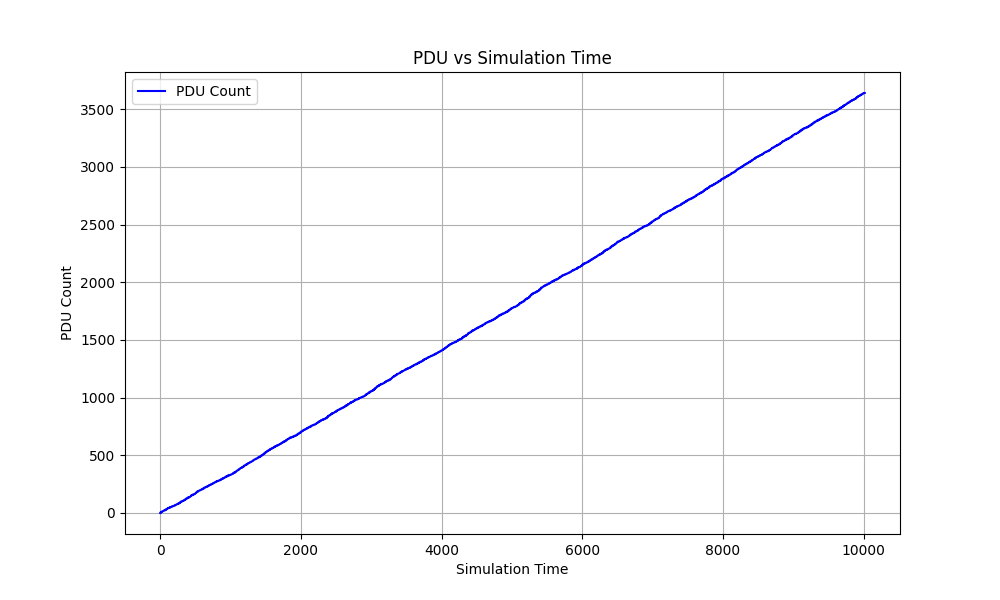
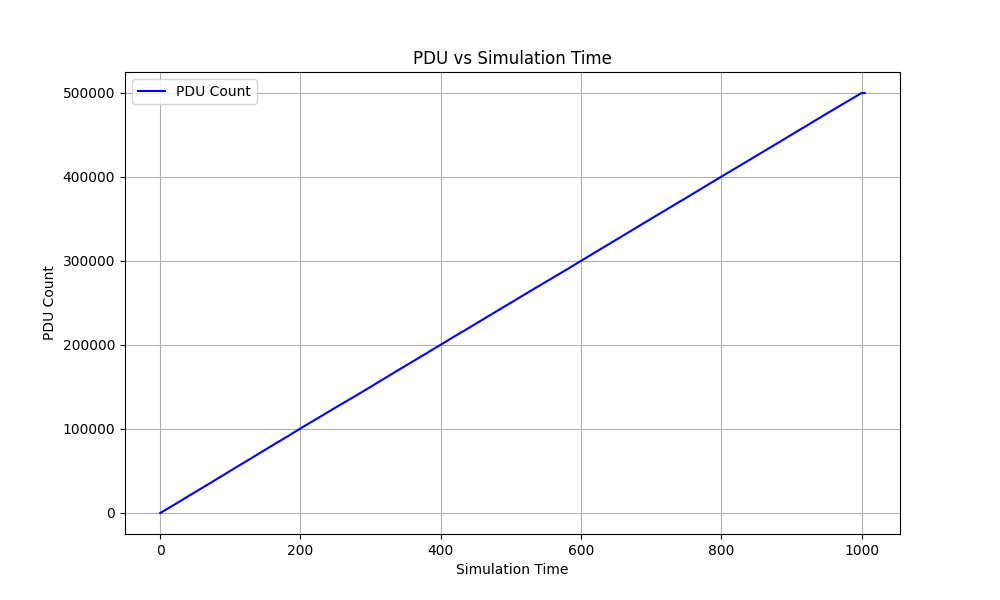
1. Removed constants from code and added them as parameters (lambda and mu) 2. Added separate module for post processing 3. Plotted Active PDUs and UPFs vs time 4. Made the case for sorting a user argument as well

diff --git a/main.py b/main.py
@@ -1,8 +1,9 @@
 import heapq
 import random
 import argparse
-import math
 import matplotlib.pyplot as plt
+import numpy as np
+from post_processing import generate_plots
 
 # Event types
 EVENT_GENERATE_PDU_SESSION = 1
@@ -89,26 +90,32 @@ class Scheduler:
     Implements the event-based scheduler simulation.
     """
 
-    def __init__(self, max_upf_instances, min_upf_instances, max_sessions_per_upf, scale_out_threshold,
-                 scale_in_threshold, simulation_time, output_file):
+    def __init__(self, upf_case, max_upf_instances, min_upf_instances, max_sessions_per_upf, scale_out_threshold,
+                 scale_in_threshold, simulation_time, arrival_rate, mu, output_file):
         """
         Initialize the scheduler with simulation parameters.
 
+        :param upf_case: Case for UPF sorting.
         :param max_upf_instances: Maximum number of UPF instances (L).
         :param min_upf_instances: Minimum number of UPF instances (M).
         :param max_sessions_per_upf: Maximum number of sessions per UPF (C).
         :param scale_out_threshold: Scale-out threshold (T1).
         :param scale_in_threshold: Scale-in threshold (T2).
         :param simulation_time: Total simulation time.
+        :param arrival_rate: Rate of session arrival (λ).
+        :param mu: Session duration parameter (µ).
         :param output_file: File to write simulation outputs.
         """
         self.event_queue = []
         self.upfs = []
+        self.upf_case = upf_case
         self.max_upf_instances = max_upf_instances
         self.min_upf_instances = min_upf_instances
         self.max_sessions_per_upf = max_sessions_per_upf
         self.scale_out_threshold = scale_out_threshold
         self.scale_in_threshold = scale_in_threshold
+        self.arrival_rate = arrival_rate
+        self.mu = mu
         self.num_upf_instances = 0
         self.next_upf_id = 0
         self.session_counter = 0
@@ -142,22 +149,21 @@ class Scheduler:
         lowest_sessions_upfs = [upf for upf in upfs_sorted if len(upf.sessions) == len(upfs_sorted[0].sessions)]
         return random.choice(lowest_sessions_upfs)
 
-    def generate_pdu_session(self, case):
+    def generate_pdu_session(self):
         """
         Generate a new PDU session event.
-        :param case: Case 1 (default) or Case 2 (select UPF with the lowest sessions).
         """
         message = f"Time: {self.current_time}, UE generates PDU session"
         self._log(message)
         session_id = self.session_counter
         self.session_counter += 1
-        duration = math.ceil(-math.log(random.uniform(0, 1)) * 5)  # Exponential distribution between 1 and 5
+        duration = np.random.exponential(1/self.mu)
         session = PDUSession(session_id, self.current_time, duration)
 
         # Find an available UPF
-        if case == 1:
+        if self.upf_case == 0:
             available_upf = next((upf for upf in self.upfs if len(upf.sessions) < self.max_sessions_per_upf), None)
-        elif case == 2:
+        elif self.upf_case == 1:
             available_upf = self.get_upf_with_lowest_sessions() if self.upfs else None
         else:
             message = f"Time: {self.current_time}, No UPF available"
@@ -248,8 +254,9 @@ class Scheduler:
         """
 
         pdu_counts = []  # List to store PDU counts
-        upf_counts_case1 = []  # List to store UPF counts for Case 1
-        upf_counts_case2 = []  # List to store UPF counts for Case 2
+        upf_counts = []  # List to store UPF counts
+        active_pdu_counts = []  # List to store active PDU counts
+        active_upf_counts = []  # List to store active UPF counts
         time_points = []  # List to store time points
 
         # Schedule the initial PDU session generation
@@ -264,17 +271,16 @@ class Scheduler:
             self.current_time = event.time
 
             pdu_counts.append(self.session_counter)  # Record PDU count
-            upf_counts_case1.append(self.next_upf_id)  # Record UPF count for Case 1
-            upf_counts_case2.append(self.next_upf_id)  # Record UPF count for Case 2
+            upf_counts.append(self.next_upf_id)  # Record UPF count
+            active_pdu_counts.append(self.active_sessions)  # Record active PDU count
+            active_upf_counts.append(self.num_upf_instances)  # Record active UPF count
             time_points.append(self.current_time)  # Record time
 
             if event.event_type == EVENT_GENERATE_PDU_SESSION:
-                self.generate_pdu_session(case=1)  # Run Case 1
-                self.generate_pdu_session(case=2)  # Run Case 2
+                self.generate_pdu_session()
 
                 # Schedule the next PDU session generation
-                next_generation_time = self.current_time + random.randint(1, 10)  # Random interval between 1 and 10
-                # time units
+                next_generation_time = self.current_time + np.random.exponential(1 / self.arrival_rate)
                 if next_generation_time <= self.simulation_time:
                     generation_event = Event(EVENT_GENERATE_PDU_SESSION, next_generation_time)
                     heapq.heappush(self.event_queue, generation_event)
@@ -294,42 +300,26 @@ class Scheduler:
         self._log(f"Simulation completed. Total PDU sessions processed: {self.session_counter}. "
                   f"Total UPFs deployed: {self.next_upf_id}.")
 
-        # Plot PDU against simulation time
-        plt.figure(figsize=(10, 6))
-        plt.plot(time_points, pdu_counts, label='PDU Count', color='blue')
-        plt.xlabel('Simulation Time')
-        plt.ylabel('PDU Count')
-        plt.title('PDU vs Simulation Time')
-        plt.grid(True)
-        plt.legend()
-        plt.savefig('pdu_vs_simulation_time.png')
-        plt.show()
-
-        # Plot UPF against simulation time
-        plt.figure(figsize=(10, 6))
-        plt.plot(time_points, upf_counts_case1, label='UPF Count', color='green')
-        plt.plot(time_points, upf_counts_case2, label='UPF Count', color='red')
-        plt.xlabel('Simulation Time')
-        plt.ylabel('UPF Count')
-        plt.title('UPF vs Simulation Time')
-        plt.grid(True)
-        plt.legend()
-        plt.savefig('upf_vs_simulation_time.png')
-        plt.show()
+        # Generate plots
+        generate_plots(time_points, pdu_counts, upf_counts, active_pdu_counts, active_upf_counts)
 
 
 if __name__ == "__main__":
     parser = argparse.ArgumentParser(description="Event-based scheduler simulation")
+    parser.add_argument("--upf_case", type=int, default=1, help="Case for UPF sorting")
     parser.add_argument("--max-upf-instances", type=int, default=110, help="Maximum number of UPF instances (L)")
     parser.add_argument("--min-upf-instances", type=int, default=1, help="Minimum number of UPF instances (M)")
     parser.add_argument("--max-sessions-per-upf", type=int, default=8, help="Maximum number of sessions per UPF (C)")
     parser.add_argument("--scale-out-threshold", type=int, default=3, help="Scale-out threshold (T1)")
     parser.add_argument("--scale-in-threshold", type=int, default=13, help="Scale-in threshold (T2)")
-    parser.add_argument("--simulation-time", type=int, default=10000, help="Simulation time")
+    parser.add_argument("--simulation-time", type=int, default=1000, help="Simulation time")
+    parser.add_argument("--arrival_rate", type=int, default=500, help="Inter-arrival rate")
+    parser.add_argument("--mu", type=int, default=1, help="µ parameter for session duration")
     parser.add_argument("--output-file", type=str, default="simulation.log", help="File to write simulation outputs")
 
     args = parser.parse_args()
 
-    scheduler = Scheduler(args.max_upf_instances, args.min_upf_instances, args.max_sessions_per_upf,
-                          args.scale_out_threshold, args.scale_in_threshold, args.simulation_time, args.output_file)
+    scheduler = Scheduler(args.upf_case, args.max_upf_instances, args.min_upf_instances, args.max_sessions_per_upf,
+                          args.scale_out_threshold, args.scale_in_threshold, args.simulation_time, args.arrival_rate,
+                          args.mu, args.output_file)
     scheduler.run()

diff --git a/post_processing.py b/post_processing.py
@@ -1,0 +1,55 @@
+import matplotlib.pyplot as plt
+
+
+def generate_plots(time_points, pdu_counts, upf_counts, active_pdu_counts, active_upf_counts):
+    """
+    Generate plots for PDU count against simulation time and UPF count against simulation time.
+
+    :param time_points: List of time points
+    :param pdu_counts: List of PDUs
+    :param upf_counts: List of UPFs
+    :param active_pdu_counts: List of active PDUs
+    :param active_upf_counts: List of active UPFs
+    """
+    # Plot PDU against simulation time
+    plt.figure(figsize=(10, 6))
+    plt.plot(time_points, pdu_counts, label='PDU Count', color='blue')
+    plt.xlabel('Simulation Time')
+    plt.ylabel('PDU Count')
+    plt.title('PDU vs Simulation Time')
+    plt.grid(True)
+    plt.legend()
+    plt.savefig('pdu_vs_simulation_time.png')
+    plt.show()
+
+    # Plot UPF against simulation time
+    plt.figure(figsize=(10, 6))
+    plt.plot(time_points, upf_counts, label='UPF Count', color='green')
+    plt.xlabel('Simulation Time')
+    plt.ylabel('UPF Count')
+    plt.title('UPF vs Simulation Time')
+    plt.grid(True)
+    plt.legend()
+    plt.savefig('upf_vs_simulation_time_case1.png')
+    plt.show()
+
+    plt.figure(figsize=(10, 6))
+    plt.plot(time_points, active_pdu_counts, label='Active PDUs', color='red')
+    plt.xlabel('Simulation Time')
+    plt.ylabel('Active PDU Count')
+    plt.title('Active PDUs vs Simulation Time')
+    plt.grid(True)
+    plt.legend()
+    plt.savefig('active_pdus_vs_simulation_time_case1.png')
+    plt.show()
+
+    # Plot active UPFs against simulation time
+    plt.figure(figsize=(10, 6))
+    plt.plot(time_points, active_upf_counts, label='Active UPFs', color='orange')
+    plt.xlabel('Simulation Time')
+    plt.ylabel('Active UPF Count')
+    plt.title('Active UPFs vs Simulation Time')
+    plt.grid(True)
+    plt.legend()
+    plt.savefig('active_upfs_vs_simulation_time_case1.png')
+    plt.show()
